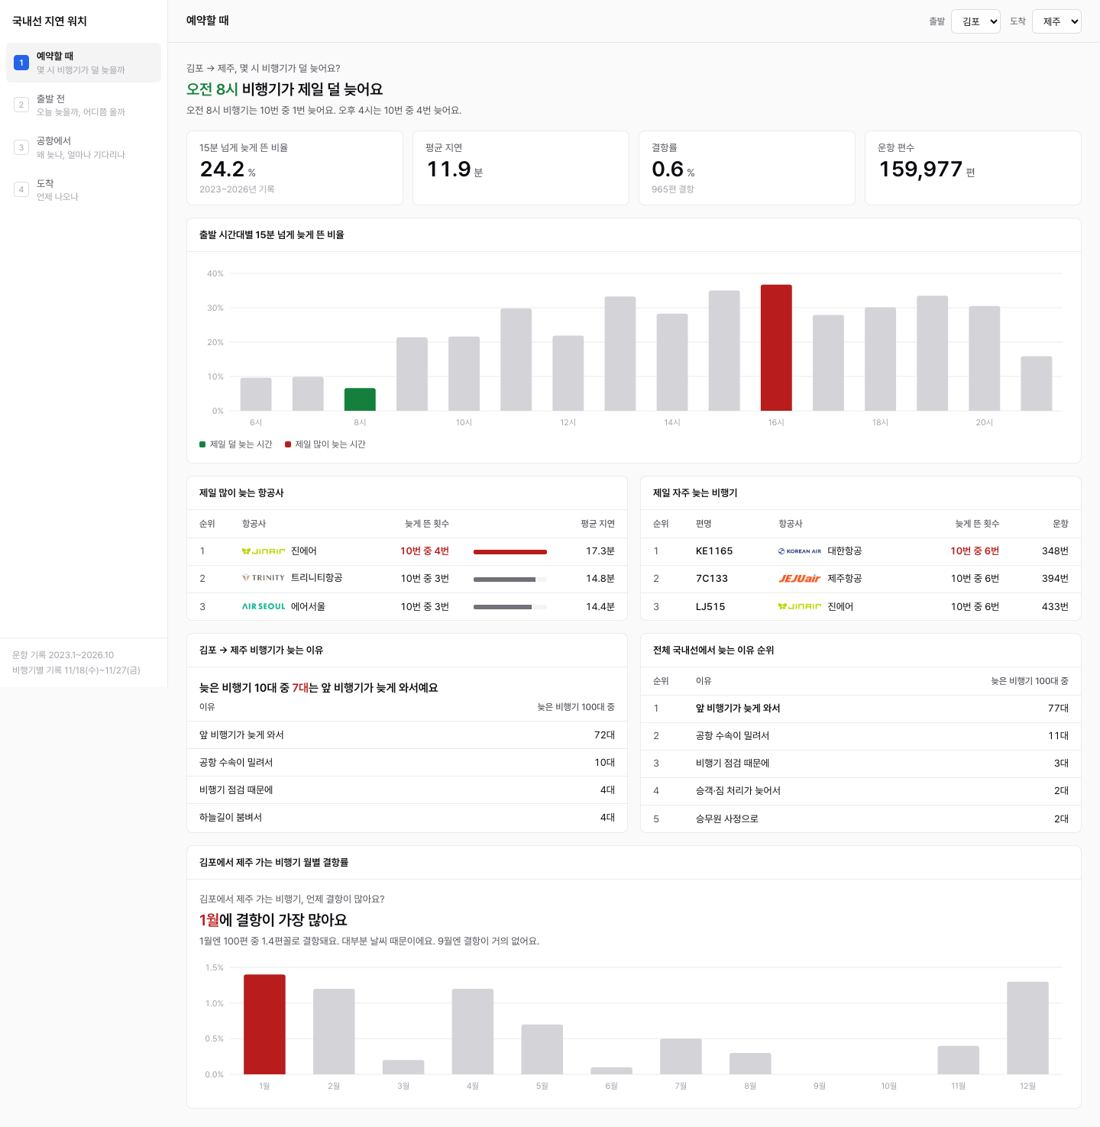
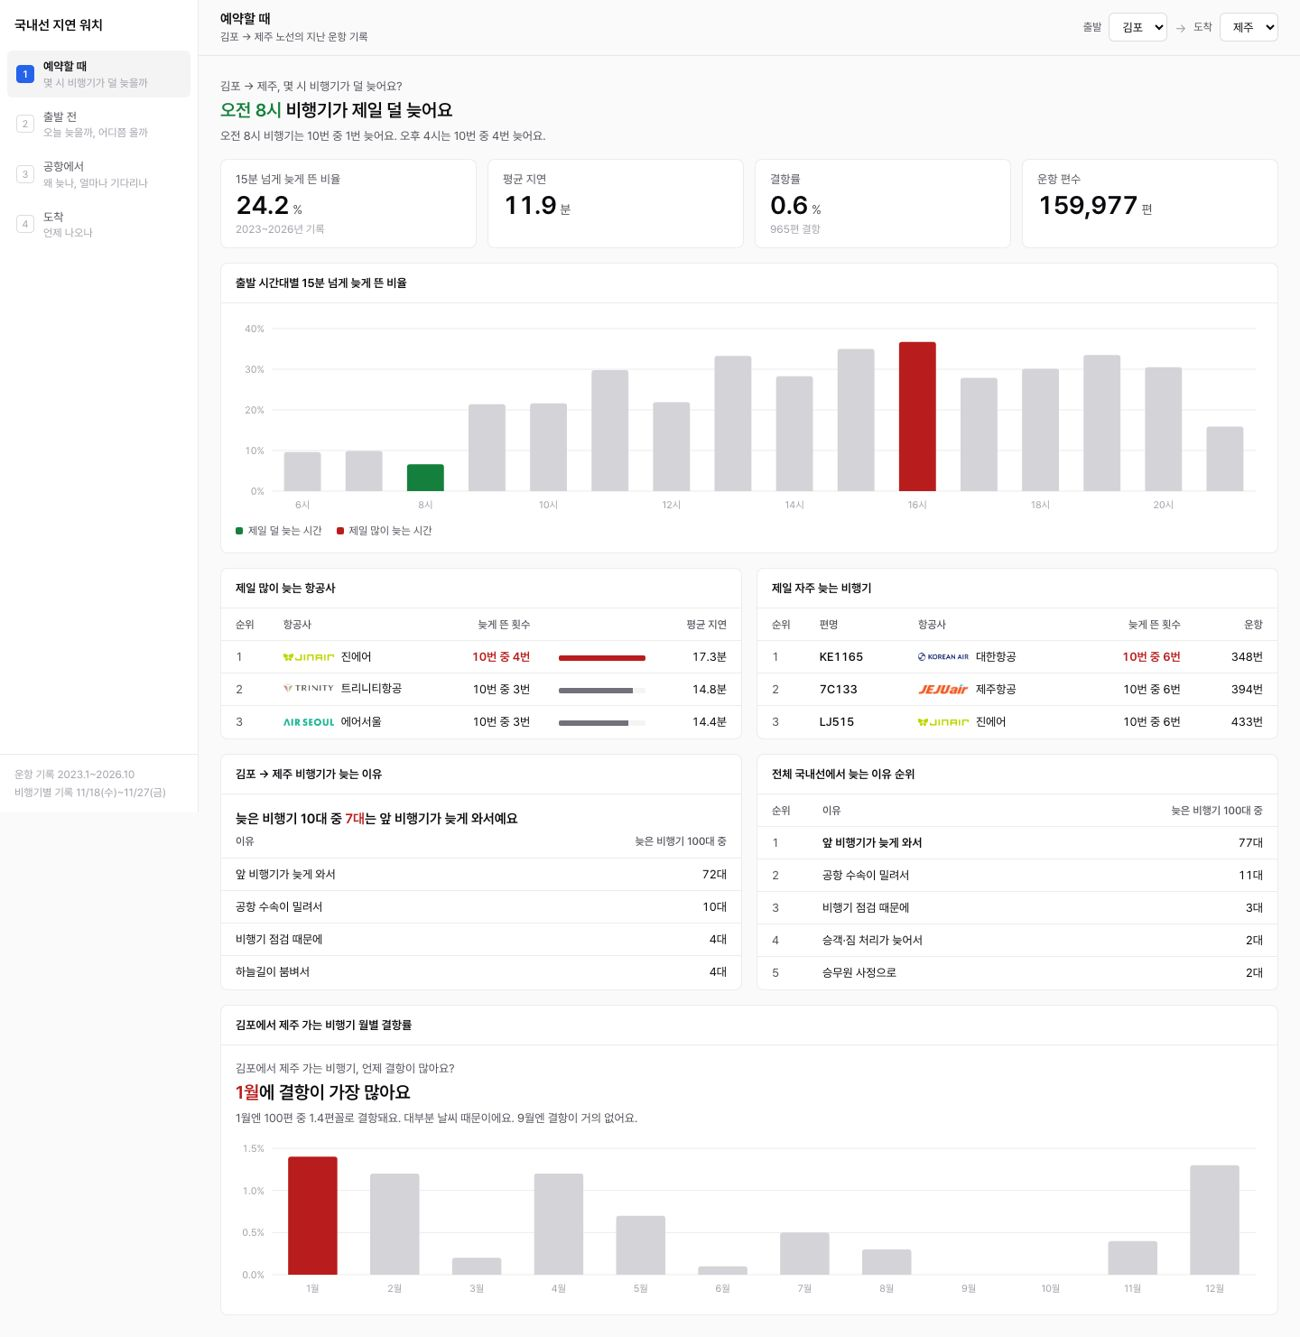
가독성: 헤더 제목·요약과 필터 분리, 휴대폰에서 보조 열 숨김, 비교 캡처 갱신

diff --git a/web/components/Tabs.tsx b/web/components/Tabs.tsx
@@ -69,22 +69,31 @@ export function Tabs({ h }: { h: History }) {
       </aside>
 
       <div className="min-w-0">
-        <header className="sticky top-0 z-10 flex min-h-14 flex-wrap items-center justify-between gap-x-6 gap-y-2 border-b border-line bg-bg/90 px-4 py-2 backdrop-blur-[2px] md:px-6">
-          <h1 className="text-[15px] font-semibold">{meta.label}</h1>
-          <div className="flex flex-wrap items-center gap-3">
-            {step === "book" ? (
-              <>
-                <Select label="출발" value={dep} options={deps} onChange={setDep} />
-                <Select label="도착" value={arr} options={arrs} onChange={setArr} />
-              </>
-            ) : (
-              <>
-                <TextInput label="편명" value={fno} onChange={setFno} list="fnos" placeholder="예: KE1626" />
-                <datalist id="fnos">{flightNos.map((f) => <option key={f} value={f} />)}</datalist>
-                {DAYS.length > 0 && <DateInput label="비행일" value={iso(day)} min={iso(DAYS[0])} max={iso(DAYS[DAYS.length - 1])} onChange={(v) => goDay(ymd(v))} />}
-                {cur && <span className="num text-xs text-ink-2">{ko(cur.dep_airport)} → {ko(cur.arr_airport)} · {dayLabel(day)} {hm(cur.dep_sched_at)} 출발 예정</span>}
-              </>
-            )}
+        <header className="sticky top-0 z-10 border-b border-line bg-bg/90 px-4 py-3 backdrop-blur-[2px] md:px-6">
+          {/* 제목·요약(왼쪽 두 줄)과 필터(오른쪽)를 나눠, 한 줄에 몰아 넣지 않는다 */}
+          <div className="flex flex-wrap items-center justify-between gap-x-6 gap-y-3">
+            <div className="min-w-0">
+              <h1 className="text-[15px] font-semibold leading-tight">{meta.label}</h1>
+              <p className="num mt-0.5 truncate text-xs text-ink-2">
+                {step === "book" ? `${dep} → ${arr} 노선의 지난 운항 기록`
+                  : cur ? `${cur.flight_no} · ${ko(cur.dep_airport)} → ${ko(cur.arr_airport)} · ${dayLabel(day)} ${hm(cur.dep_sched_at)} 출발 예정` : "편명과 비행일을 골라 주세요"}
+              </p>
+            </div>
+            <div className="flex flex-wrap items-center gap-2">
+              {step === "book" ? (
+                <>
+                  <Select label="출발" value={dep} options={deps} onChange={setDep} />
+                  <span aria-hidden="true" className="text-ink-3">→</span>
+                  <Select label="도착" value={arr} options={arrs} onChange={setArr} />
+                </>
+              ) : (
+                <>
+                  <TextInput label="편명" value={fno} onChange={setFno} list="fnos" placeholder="예: KE1626" />
+                  <datalist id="fnos">{flightNos.map((f) => <option key={f} value={f} />)}</datalist>
+                  {DAYS.length > 0 && <DateInput label="비행일" value={iso(day)} min={iso(DAYS[0])} max={iso(DAYS[DAYS.length - 1])} onChange={(v) => goDay(ymd(v))} />}
+                </>
+              )}
+            </div>
           </div>
         </header>
 

diff --git a/web/components/BookTab.tsx b/web/components/BookTab.tsx
@@ -27,18 +27,18 @@ export function BookTab({ h, dep, arr }: { h: History; dep: string; arr: string 
 
   const rRate = Math.round((1000 * route.late) / route.base) / 10;
   const airCols: Col<RouteAirline>[] = [
-    { key: "rk", label: "순위", width: "56px", render: (a) => <span className="text-ink-2">{airlines.indexOf(a) + 1}</span> },
+    { key: "rk", label: "순위", width: "48px", render: (a) => <span className="text-ink-2">{airlines.indexOf(a) + 1}</span> },
     { key: "nm", label: "항공사", render: (a) => <Airline name={a.airline} /> },
     { key: "ten", label: "늦게 뜬 횟수", align: "right", render: (a) => <span className={airlines.indexOf(a) === 0 ? "font-semibold text-bad" : ""}>10번 중 {tenOf(a.late, a.base)}번</span> },
-    { key: "bar", label: "", width: "120px", render: (a) => <Meter value={rate(a)} max={rate(airlines[0])} tone={airlines.indexOf(a) === 0 ? "bad" : undefined} /> },
-    { key: "avg", label: "평균 지연", align: "right", render: (a) => `${a.avg_delay}분` },
+    { key: "bar", label: "", width: "120px", wide: true, render: (a) => <Meter value={rate(a)} max={rate(airlines[0])} tone={airlines.indexOf(a) === 0 ? "bad" : undefined} /> },
+    { key: "avg", label: "평균 지연", align: "right", wide: true, render: (a) => `${a.avg_delay}분` },
   ];
   const flCols: Col<RouteFlight>[] = [
-    { key: "rk", label: "순위", width: "56px", render: (f) => <span className="text-ink-2">{flights.indexOf(f) + 1}</span> },
+    { key: "rk", label: "순위", width: "48px", render: (f) => <span className="text-ink-2">{flights.indexOf(f) + 1}</span> },
     { key: "no", label: "편명", render: (f) => <span className="font-medium">{f.flight}</span> },
     { key: "al", label: "항공사", render: (f) => <Airline name={f.airline} /> },
     { key: "ten", label: "늦게 뜬 횟수", align: "right", render: (f) => <span className={flights.indexOf(f) === 0 ? "font-semibold text-bad" : ""}>10번 중 {tenOf(f.late, f.base)}번</span> },
-    { key: "n", label: "운항", align: "right", render: (f) => `${f.base.toLocaleString()}번` },
+    { key: "n", label: "운항", align: "right", wide: true, render: (f) => `${f.base.toLocaleString()}번` },
   ];
 
   return (

diff --git a/web/components/ui.tsx b/web/components/ui.tsx
@@ -98,7 +98,7 @@ export function Button({ children, onClick, active }: { children: ReactNode; onC
 }
 
 /** 표: 머리글 12px 회색, 행 36px, 숫자 오른쪽 정렬 */
-export type Col<T> = { key: string; label: string; align?: "left" | "right"; width?: string; render: (row: T) => ReactNode };
+export type Col<T> = { key: string; label: string; align?: "left" | "right"; width?: string; wide?: boolean; render: (row: T) => ReactNode };
 export function Table<T>({ cols, rows, rowKey, onRow, selected }: { cols: Col<T>[]; rows: T[]; rowKey: (r: T) => string; onRow?: (r: T) => void; selected?: (r: T) => boolean }) {
   return (
     <div className="-mx-4 -my-4 overflow-x-auto">
@@ -106,7 +106,7 @@ export function Table<T>({ cols, rows, rowKey, onRow, selected }: { cols: Col<T>
         <thead>
           <tr className="border-b border-line">
             {cols.map((c) => (
-              <th key={c.key} style={{ width: c.width }} className={`h-9 whitespace-nowrap px-4 text-xs font-medium text-ink-2 ${c.align === "right" ? "text-right" : "text-left"}`}>{c.label}</th>
+              <th key={c.key} style={{ width: c.width }} className={`${c.wide ? "hidden sm:table-cell" : ""} h-9 whitespace-nowrap px-4 text-xs font-medium text-ink-2 ${c.align === "right" ? "text-right" : "text-left"}`}>{c.label}</th>
             ))}
           </tr>
         </thead>
@@ -115,7 +115,7 @@ export function Table<T>({ cols, rows, rowKey, onRow, selected }: { cols: Col<T>
             <tr key={rowKey(r)} onClick={onRow ? () => onRow(r) : undefined}
               className={`h-9 border-b border-line last:border-b-0 ${onRow ? "cursor-pointer hover:bg-subtle" : ""} ${selected?.(r) ? "bg-accent-soft" : ""}`}>
               {cols.map((c) => (
-                <td key={c.key} className={`num whitespace-nowrap px-4 ${c.align === "right" ? "text-right" : "text-left"}`}>{c.render(r)}</td>
+                <td key={c.key} className={`${c.wide ? "hidden sm:table-cell" : ""} num whitespace-nowrap px-4 ${c.align === "right" ? "text-right" : "text-left"}`}>{c.render(r)}</td>
               ))}
             </tr>
           ))}

diff --git a/web/components/FlightTabs.tsx b/web/components/FlightTabs.tsx
@@ -59,7 +59,7 @@ export function LeaveTab({ h, AP, ROT, DAYS, day, cur, goDay, SAT }: Ctx) {
         <Table<Leg> cols={[
           { key: "t", label: "출발 예정", width: "96px", render: (l) => hm(l.dep_sched_at) },
           { key: "rt", label: "구간", render: (l) => `${ko(l.dep_airport)} → ${ko(l.arr_airport)}` },
-          { key: "no", label: "편명", render: (l) => l.flight_no },
+          { key: "no", label: "편명", wide: true, render: (l) => l.flight_no },
           { key: "s", label: "출발", align: "right", render: (l) => <Badge tone={delayTone(l.dep_delay_gate_est_min)}>{delayWord(l.dep_delay_gate_est_min)}</Badge> },
         ]} rows={legs} rowKey={(l) => l.flight_no + l.dep_sched_at} selected={(l) => l === r} />
       </Card>
@@ -109,7 +109,7 @@ export function AirportTab({ h, AP, ROT, day, cur }: Ctx) {
             <Table<Leg> cols={[
               { key: "t", label: "출발 예정", width: "96px", render: (x) => <span className="font-medium">{hm(x.dep_sched_at)}</span> },
               { key: "a", label: "항공사", render: (x) => <Airline name={x.airline_name} /> },
-              { key: "n", label: "편명", render: (x) => x.flight_no },
+              { key: "n", label: "편명", wide: true, render: (x) => x.flight_no },
               { key: "s", label: "출발", align: "right", render: (x) => <Badge tone={delayTone(x.dep_delay_gate_est_min)}>{x.dep_delay_gate_est_min == null ? "예정" : delayWord(x.dep_delay_gate_est_min)}</Badge> },
             ] as Col<Leg>[]} rows={alts} rowKey={(x) => x.flight_no + x.dep_sched_at} />
           ) : <p className="text-ink-2">이날은 {ko(r.arr_airport)} 가는 다음 비행기가 없어요</p>}
